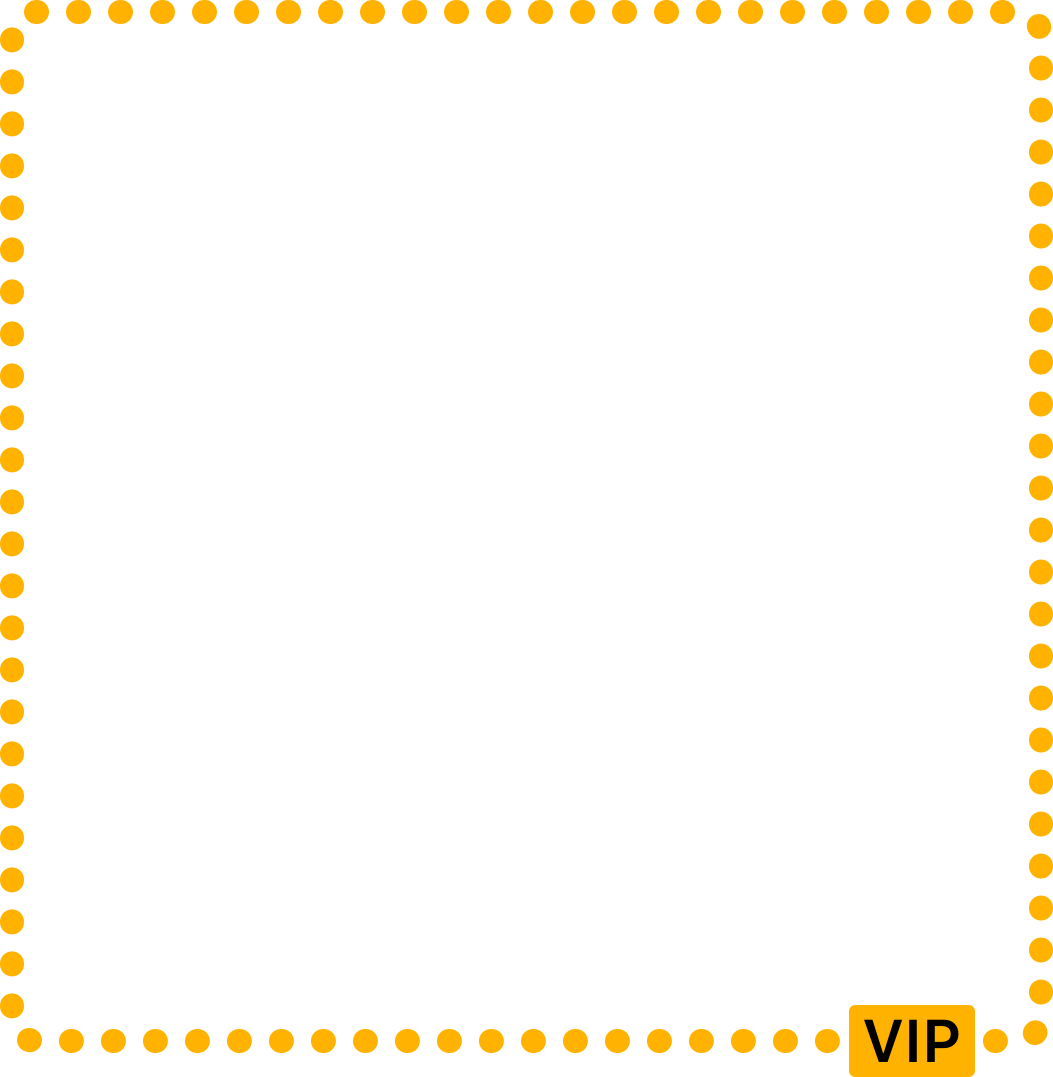
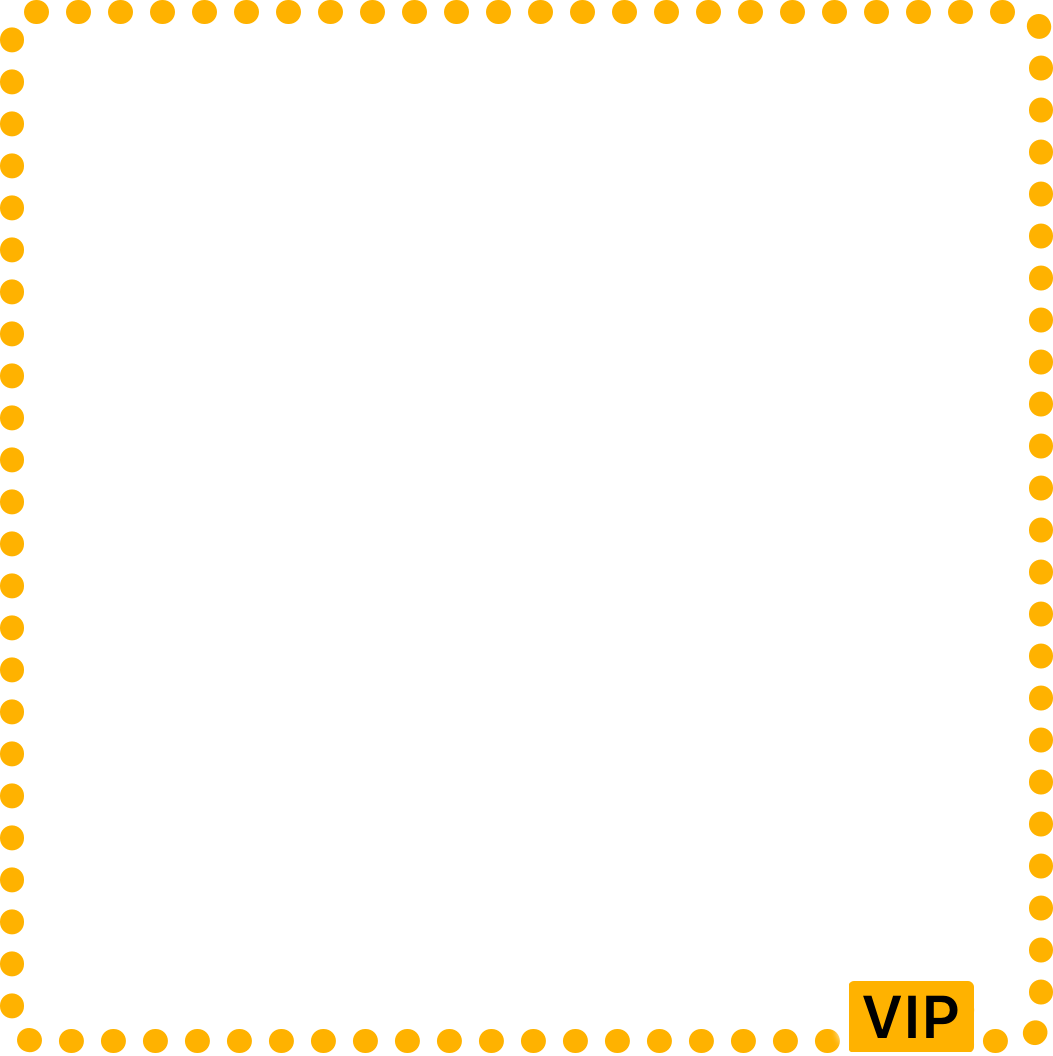
mo-201: Modified VIP frame a bit, got rid of paddings of frame

Changed region(s): [[0.0, 0.0312, 1.0, 1.0]]

diff --git a/src/components/Tinder/Tinder.js b/src/components/Tinder/Tinder.js
@@ -37,7 +37,7 @@ class CardComponent extends Component{
     const position = card.section.exit_position
     const distance = Math.floor(getDistance(user, card, position)/meter);
     return(
-      <ImageBackground resizeMode='stretch' source={card.vip && vipObject} style={{flex:1, padding:5, paddingBottom:10}}>
+      <ImageBackground resizeMode='stretch' source={card.vip && vipObject} style={{flex:1}}>
         <View style={styles.tinder.card}>
           <Animated.Image
             onLoadEnd={() => {if(card.index === 0) this.onLoad()}} 

diff --git a/src/config/styles.js b/src/config/styles.js
@@ -579,7 +579,7 @@ const tinder = StyleSheet.create({
     justifyContent:'center',
     alignItems:'center',
     position:'absolute',
-    bottom:50,
+    bottom:30,
     alignSelf:'center'
   },
   actionBtn: {
